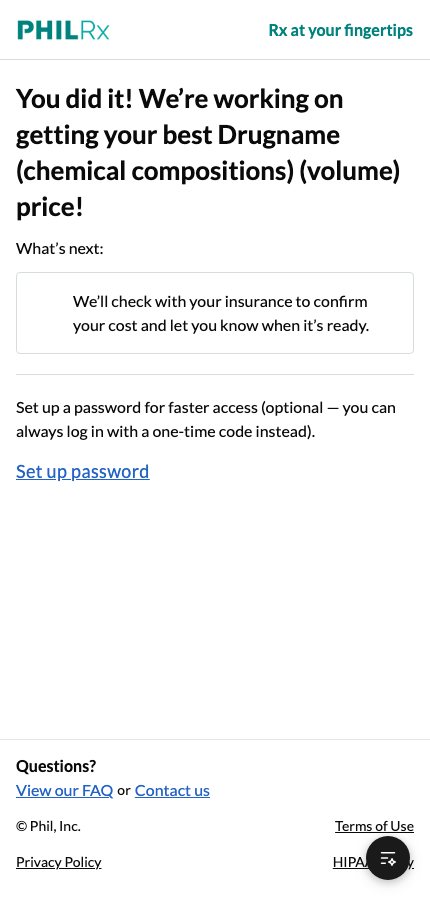
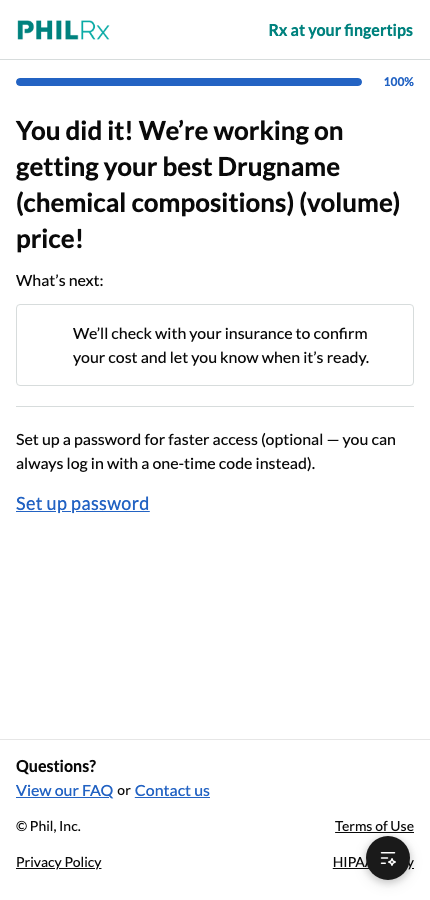
Fix final-review findings: unshare Second-Chance's coupon route, fix README
The Enrollment fix for /coupon-enrollment had hard-coded the shared
SavingsHipaaAuthorizationPage's exits, silently breaking the Payment
Approval Second-Chance stage's pre-existing use of the same screen
(SecondChanceEnrollmentPage). Per the PM table, that stage has its own
distinct route (/coupon-enrollment-second-chance) for what it calls a
"similar" screen — added as a second route to the same component, with
exits and progress-bar visibility now keyed off which path reached it.

Also corrected the README's now-inaccurate description of the caregiver
modal (previously said it always opens; it's now minor-gated) and
documented the coupon-enrollment routes, progress bar, and verify
scripts added by this work.

diff --git a/projects/myphil-base-flow/src/pages/SavingsHipaaAuthorizationPage.jsx b/projects/myphil-base-flow/src/pages/SavingsHipaaAuthorizationPage.jsx
@@ -1,5 +1,5 @@
 import React, { useState } from 'react';
-import { useNavigate } from 'react-router-dom';
+import { useNavigate, useLocation } from 'react-router-dom';
 import { Button } from '@ds/components/forms/Button/Button.jsx';
 import { DeclineEnrollmentModal } from '@ds/components/domain/DeclineEnrollmentModal/DeclineEnrollmentModal.jsx';
 import { MyPhilHeader } from '@ds/components/navigation/MyPhilHeader/MyPhilHeader.jsx';
@@ -8,14 +8,21 @@ import { MyPhilFooter } from '@ds/components/navigation/MyPhilFooter/MyPhilFoote
 
 const SAVINGS_TERMS = `I understand that if my prescription is not covered by my government sponsored program, I may be eligible for assistance programs from the manufacturer. If I do take such assistance from the manufacturer on my prescription, I understand that I cannot and will not seek reimbursement from my government sponsored program`;
 
+// This screen is reused by two PM-table stages that share the same UI:
+// Enrollment's /coupon-enrollment (combined savings + HIPAA, one step) and
+// Payment Approval's /coupon-enrollment-second-chance (a later chance to
+// enroll). Each stage has its own exits — only the Enrollment context gets
+// the Enrollment progress bar and lands on /enrollment-success.
 export function SavingsHipaaAuthorizationPage() {
   const navigate = useNavigate();
+  const location = useLocation();
+  const isEnrollmentContext = location.pathname === '/coupon-enrollment';
   const [declineOpen, setDeclineOpen] = useState(false);
 
   return (
     <div style={{ width: '100%', minHeight: '100vh', boxSizing: 'border-box', background: '#fff', display: 'flex', flexDirection: 'column', alignItems: 'center', fontFamily: 'var(--font-body)' }}>
       <MyPhilHeader />
-      <ProgressBar percent={67} />
+      {isEnrollmentContext && <ProgressBar percent={67} />}
 
       <div style={{ width: '100%', flex: 1, boxSizing: 'border-box', display: 'flex', flexDirection: 'column', gap: 20, padding: '20px 16px 80px' }}>
         <div style={{ display: 'flex', flexDirection: 'column', gap: 8 }}>
@@ -38,7 +45,13 @@ export function SavingsHipaaAuthorizationPage() {
         </div>
 
         <div style={{ display: 'flex', flexDirection: 'column', gap: 16 }}>
-          <Button hierarchy="primary" fullWidth onClick={() => navigate('/enrollment-success')}>Agree and enroll</Button>
+          <Button
+            hierarchy="primary"
+            fullWidth
+            onClick={() => navigate(isEnrollmentContext ? '/enrollment-success' : '/second-chance-enrolled')}
+          >
+            Agree and enroll
+          </Button>
           <Button hierarchy="secondary" fullWidth onClick={() => setDeclineOpen(true)}>Decline enrollment</Button>
         </div>
 
@@ -54,9 +67,12 @@ export function SavingsHipaaAuthorizationPage() {
         onClose={() => setDeclineOpen(false)}
         onEnroll={() => {
           setDeclineOpen(false);
-          navigate('/enrollment-success');
+          navigate(isEnrollmentContext ? '/enrollment-success' : '/second-chance-enrolled');
         }}
-        onDecline={() => setDeclineOpen(false)}
+        onDecline={() => {
+          setDeclineOpen(false);
+          if (!isEnrollmentContext) navigate('/second-chance-enrollment');
+        }}
       />
     </div>
   );

diff --git a/projects/myphil-base-flow/src/pages/SecondChanceEnrollmentPage.jsx b/projects/myphil-base-flow/src/pages/SecondChanceEnrollmentPage.jsx
@@ -12,7 +12,7 @@ export function SecondChanceEnrollmentPage() {
   // When HIPAA and the coupon are combined, enrolling goes to the consent
   // screen (checkboxes + signature) instead of the terms scroll-box.
   const combined = searchParams.get('combined') === '1';
-  const enrollRoute = combined ? '/second-chance-consent' : '/coupon-enrollment';
+  const enrollRoute = combined ? '/second-chance-consent' : '/coupon-enrollment-second-chance';
   const [summaryOpen, setSummaryOpen] = useState(true);
   const [openSection, setOpenSection] = useState(null);
   return (

diff --git a/projects/myphil-base-flow/src/App.jsx b/projects/myphil-base-flow/src/App.jsx
@@ -39,6 +39,7 @@ const SCREENS = [
   ['/savings-enrollment', SavingsEnrollmentPage],
   ['/hipaa-authorization', HipaaAuthorizationPage],
   ['/coupon-enrollment', SavingsHipaaAuthorizationPage],
+  ['/coupon-enrollment-second-chance', SavingsHipaaAuthorizationPage],
   ['/enrollment-success', EnrollmentSuccessPage],
   ['/create-password', CreatePasswordPage],
   ['/checkout-sms', CheckoutSmsPage],

diff --git a/projects/myphil-base-flow/README.md b/projects/myphil-base-flow/README.md
@@ -18,13 +18,37 @@ Open the printed localhost URL. Routes:
 - `/sms` — recreation of the PhilRx text message that starts this flow
   (tap the link to continue)
 - `/welcome` — "Welcome, Patricia!" identity-verification screen (last
-  name + DOB). Clicking "Next" once both fields are filled opens the
-  Caregiver modal as an overlay.
+  name + DOB). Clicking "Next" once both fields are filled computes age
+  from the entered DOB: if under 18, opens the Caregiver modal as an
+  overlay; otherwise goes straight to `/insurance-details`.
+- `/coupon-enrollment` — combined savings + HIPAA consent, an alternate
+  single-step path off `/contact-information` to the same outcome as the
+  separate `/savings-enrollment` + `/hipaa-authorization` screens. Both
+  paths complete at `/enrollment-success`.
+- `/coupon-enrollment-second-chance` — the same screen component, reused
+  for the Payment Approval "second chance" coupon offer (reached from
+  `/second-chance-enrollment`); its exits and progress bar differ by
+  route, see `SavingsHipaaAuthorizationPage.jsx`.
 
 The Caregiver modal ("Caregiver info for minors") is not a route — it's
-`components/domain/CaregiverModal`, opened from `/welcome`. Confirm/Cancel
-both just close it for now, since no screen exists yet for what happens
-after — add the next route when that screen's Figma link arrives.
+`components/domain/CaregiverModal`, opened from `/welcome` only when the
+patient is a minor. Confirm navigates to `/insurance-details`; Cancel
+just closes the modal.
+
+A progress bar (`@ds/components/navigation/ProgressBar`) appears on every
+Enrollment-stage screen (`/welcome` through `/enrollment-success`, both
+branches), showing percent complete through that branch. It does not
+appear on `/coupon-enrollment-second-chance`, since that's a different
+stage.
+
+## Verification scripts
+
+`scripts/*.mjs` are Playwright headless-browser walkthroughs (no unit
+test framework — see Known limitations). Run `npm run dev` first, then
+from this directory: `node scripts/verify-baseline.mjs`,
+`verify-caregiver-modal.mjs`, `verify-coupon-routing.mjs`,
+`verify-progress-bar.mjs`, `verify-second-chance-unaffected.mjs`.
+Screenshots land in `scripts/out-*.png`.
 
 ## Design-system changes made for this flow
 
